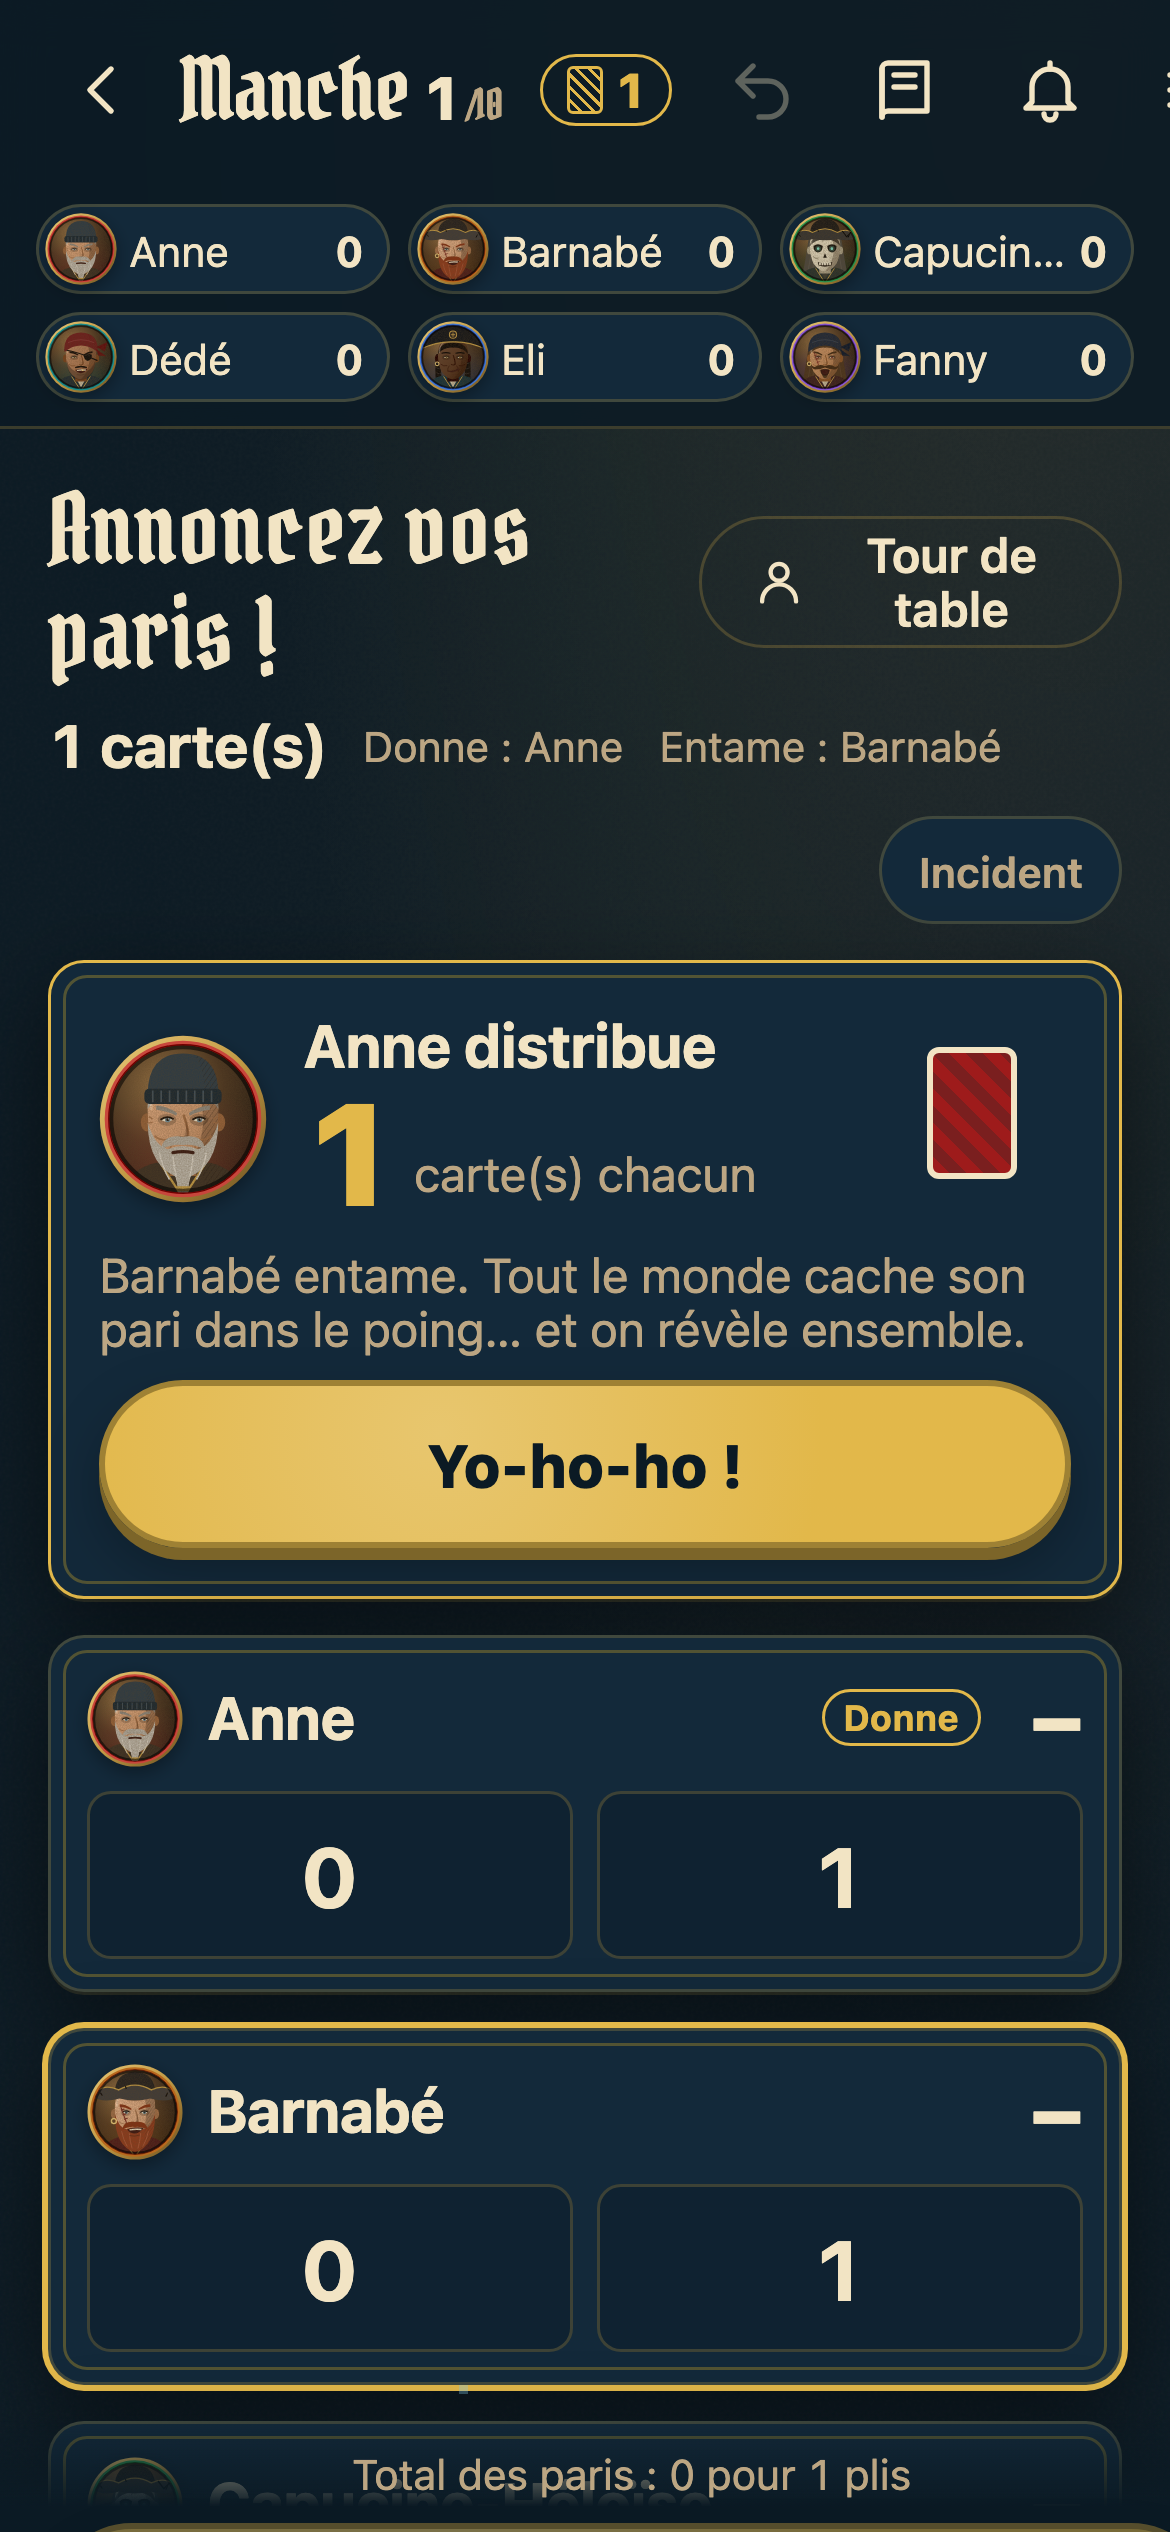
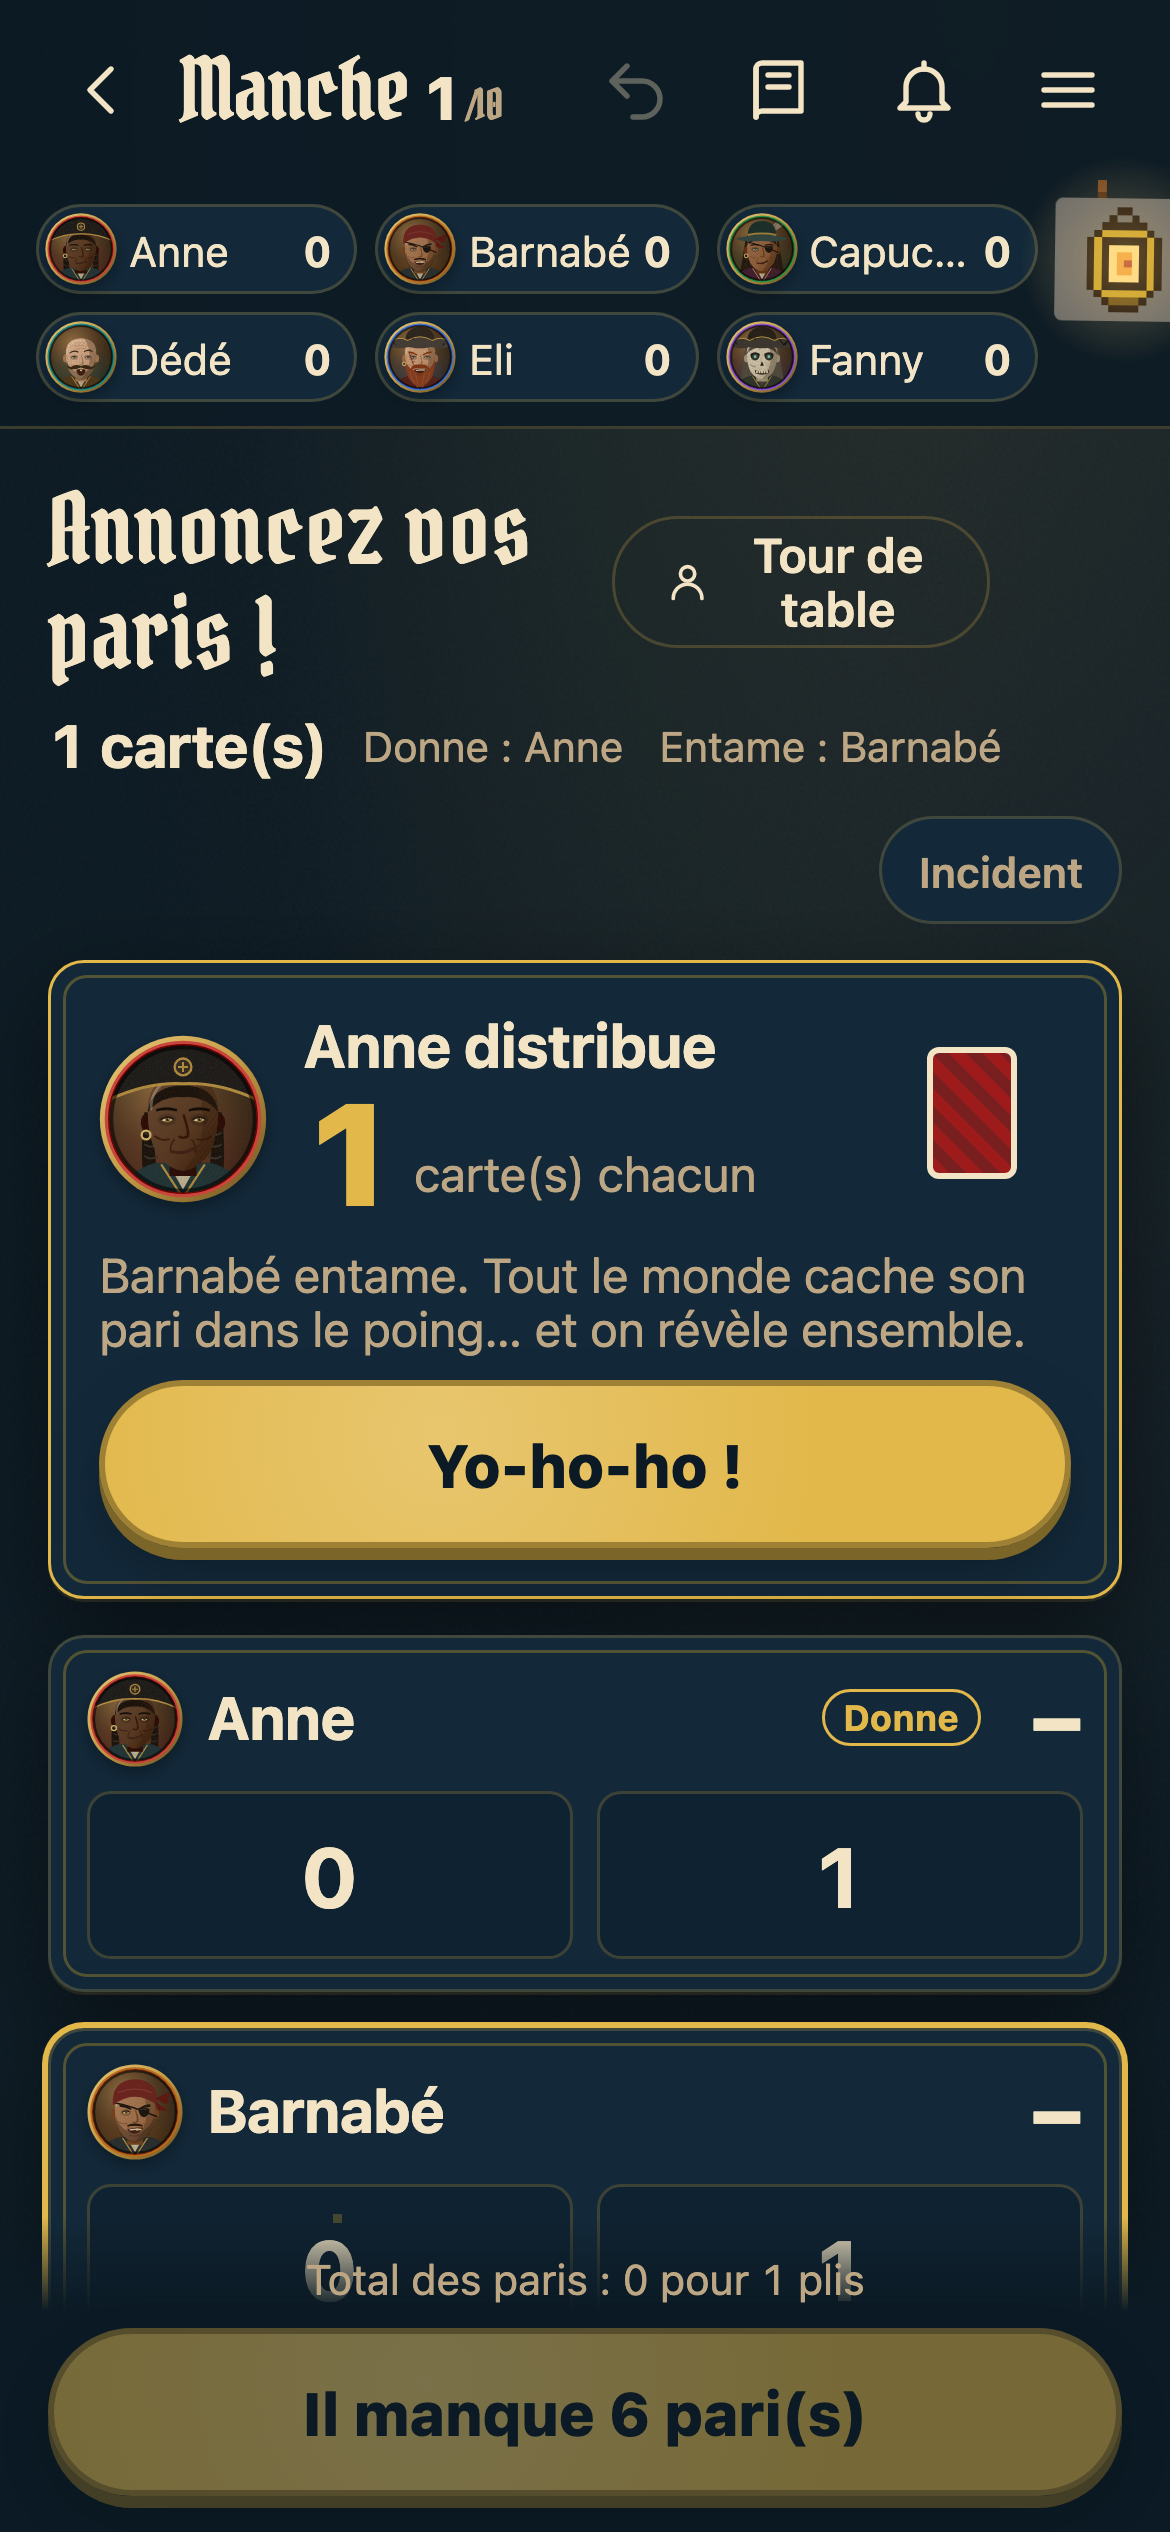
lanterne présente sur tous les écrans (extinction des feux conservée), aucun débordement horizontal

diff --git a/web/src/ui/retro.tsx b/web/src/ui/retro.tsx
@@ -1,6 +1,6 @@
 // Le « cachet » rétro : curseurs pixel, traînée de pièces derrière la souris, étincelles au tap,
 // lanterne qui se balance, navire qui passe, bandeau défilant, badges 88×31 et compteur à l'ancienne.
-import { useEffect, useRef, useState } from 'react';
+import { useEffect, useRef } from 'react';
 import { audio } from '../audio/audio';
 import type { Game } from '../game/model';
 import { t } from '../i18n/t';
@@ -141,30 +141,10 @@ function Pixel({ svg, className }: { svg: string; className?: string }) {
   return <span className={`pixel ${className ?? ''}`} aria-hidden="true" dangerouslySetInnerHTML={{ __html: svg }} />;
 }
 
-/** Toucher la lanterne éteint la lumière : il ne reste qu'un halo qui suit le doigt ou la souris. */
-export function SwingingLantern() {
-  const [off, setOff] = useState(false);
-  useEffect(() => {
-    const root = document.documentElement;
-    if (!off) {
-      delete root.dataset.lights;
-      return;
-    }
-    root.dataset.lights = 'off';
-    const move = (e: PointerEvent) => {
-      root.style.setProperty('--mx', `${e.clientX}px`);
-      root.style.setProperty('--my', `${e.clientY}px`);
-    };
-    window.addEventListener('pointermove', move, { passive: true });
-    window.addEventListener('pointerdown', move, { passive: true });
-    return () => {
-      window.removeEventListener('pointermove', move);
-      window.removeEventListener('pointerdown', move);
-      delete root.dataset.lights;
-    };
-  }, [off]);
+/** La lanterne qui se balance ; la toucher éteint ou rallume la lumière. */
+export function SwingingLantern({ mode, off, onToggle }: { mode: 'page' | 'bar'; off: boolean; onToggle: () => void }) {
   return (
-    <div className="lantern-wrap">
+    <div className={`lantern-wrap ${mode}`}>
       <div className="lantern-rope" />
       <button
         type="button"
@@ -172,11 +152,11 @@ export function SwingingLantern() {
         aria-pressed={off}
         aria-label={t(off ? 'home.lightsOn' : 'home.lightsOff')}
         onClick={() => {
-          setOff(!off);
+          onToggle();
           audio.play('twang', { force: true });
         }}
       >
-        <Pixel svg={spriteSvg(LANTERN, 4)} />
+        <Pixel svg={spriteSvg(LANTERN, mode === 'bar' ? 2.5 : 3)} />
         {!off && <span className="lantern-glow" />}
       </button>
     </div>

diff --git a/web/src/styles.css b/web/src/styles.css
@@ -1458,33 +1458,40 @@ button {
   position: relative;
 }
 .lantern-wrap {
-  position: absolute;
-  top: 34px;
-  right: var(--sp-5);
-  width: 48px;
-  z-index: 2;
+  position: fixed;
+  top: 0;
+  right: 14px;
+  width: 36px;
   transform-origin: 50% 0;
   animation: swing 3.6s ease-in-out infinite;
   z-index: 95;
+  pointer-events: none;
 }
 .lantern-wrap .lantern {
-  border: 0;
-  background: transparent;
-  padding: 0;
+  pointer-events: auto;
 }
-:root[data-lights='off'] body::after {
-  content: '';
-  position: fixed;
-  inset: 0;
-  z-index: 94;
-  pointer-events: none;
-  opacity: 1;
-  animation: none;
-  background: radial-gradient(circle 120px at var(--mx, 50%) var(--my, 30%), transparent 0, transparent 60%, rgba(0, 0, 0, 0.96) 100%);
+.strip-wrap {
+  position: relative;
+}
+.lantern-wrap.bar {
+  position: absolute;
+  right: 14px;
+  width: 30px;
+}
+.lantern-wrap.bar .lantern-rope {
+  height: 6px;
+  width: 3px;
+}
+/* place réservée à la lanterne : ligne de titre des écrans, et à droite des scores en jeu */
+:root[data-retro='on'] .screen > .row:first-child {
+  padding-right: 44px;
+}
+:root[data-retro='on'] .leader-strip {
+  padding-right: 52px;
 }
 .lantern-rope {
   width: 4px;
-  height: 40px;
+  height: 22px;
   margin: 0 auto;
   background: repeating-linear-gradient(to bottom, #7a4a22 0 4px, #4e2e14 4px 8px);
 }
@@ -1495,8 +1502,9 @@ button {
 }
 .lantern-glow {
   position: absolute;
-  inset: -24px;
+  inset: -18px;
   border-radius: 50%;
+  pointer-events: none;
   background: radial-gradient(circle, rgba(255, 210, 120, 0.45), transparent 65%);
   animation: glow 2.2s steps(4) infinite;
 }
@@ -2613,4 +2621,9 @@ button {
     max-width: 30vw;
     text-align: left;
   }
+}
+/* rien ne doit élargir la page sur téléphone (halos, lanternes, animations qui débordent) */
+html,
+body {
+  overflow-x: clip;
 }

diff --git a/web/src/ui/App.tsx b/web/src/ui/App.tsx
@@ -13,7 +13,8 @@ import { AboutScreen, RulesScreen, SettingsScreen } from './misc';
 import { RecapScreen } from './recap';
 import { RoundScreen } from './round';
 import { SetupScreen } from './setup';
-import { RetroLayer, StormLayer } from './retro';
+import { useLightsOut } from './lights';
+import { RetroLayer, StormLayer, SwingingLantern } from './retro';
 import { LeaderStrip } from './strip';
 
 type View = 'home' | 'setup' | 'game' | 'settings' | 'rules' | 'about';
@@ -99,6 +100,10 @@ export function App() {
   }, []);
 
   const inGame = view === 'game' && game !== undefined;
+  const [lightsOff, setLightsOff] = useState(false);
+  const toggleLights = useCallback(() => setLightsOff((x) => !x), []);
+  useLightsOut(prefs.retro && lightsOff);
+  const barLantern = inGame && (game.status === 'inProgress' || finalRecap === game.id);
   useWakeLock(inGame && game.status === 'inProgress' && prefs.wakeLock);
 
   const undo = useCallback(() => {
@@ -231,7 +236,10 @@ export function App() {
                 <Icon name="menu" />
               </button>
             </div>
-            <LeaderStrip game={game} />
+            <div className="strip-wrap">
+              <LeaderStrip game={game} />
+              {prefs.retro && <SwingingLantern mode="bar" off={lightsOff} onToggle={toggleLights} />}
+            </div>
           </header>
         )}
         {playing && prefs.retro && <StormLayer game={game} />}
@@ -251,6 +259,7 @@ export function App() {
       )}
       {body}
       <RetroLayer enabled={prefs.retro} />
+      {prefs.retro && !barLantern && <SwingingLantern mode="page" off={lightsOff} onToggle={toggleLights} />}
       {ledger && game && <Ledger game={game} onClose={() => setLedger(false)} />}
       {menu && game && (
         <Modal onClose={() => setMenu(false)} label={t('game.menu')}>

diff --git a/web/src/ui/lights.ts b/web/src/ui/lights.ts
@@ -1,0 +1,25 @@
+// Extinction des feux : un halo suit le doigt ou la souris quand la lanterne est éteinte.
+import { useEffect } from 'react';
+
+export function useLightsOut(off: boolean): void {
+  useEffect(() => {
+    const root = document.documentElement;
+    if (!off) {
+      delete root.dataset.lights;
+      return;
+    }
+    root.dataset.lights = 'off';
+    const move = (e: PointerEvent) => {
+      root.style.setProperty('--mx', `${e.clientX}px`);
+      root.style.setProperty('--my', `${e.clientY}px`);
+    };
+    window.addEventListener('pointermove', move, { passive: true });
+    window.addEventListener('pointerdown', move, { passive: true });
+    return () => {
+      window.removeEventListener('pointermove', move);
+      window.removeEventListener('pointerdown', move);
+      delete root.dataset.lights;
+    };
+  }, [off]);
+}
+

diff --git a/web/src/ui/home.tsx b/web/src/ui/home.tsx
@@ -2,7 +2,7 @@ import { currentRound, gameRanking, playerById, type Game } from '../game/model'
 import { useStore } from '../game/store';
 import { t } from '../i18n/t';
 import { Avatar, Compass, Crown, Icon } from './common';
-import { Badges, ShipParade, SwingingLantern, Ticker, VisitCounter } from './retro';
+import { Badges, ShipParade, Ticker, VisitCounter } from './retro';
 
 function winnerNames(g: Game): string {
   return gameRanking(g)
@@ -29,7 +29,6 @@ export function Home({
 
   return (
     <main className="screen home">
-      {state.prefs.retro && <SwingingLantern />}
       {state.prefs.retro && <Ticker />}
       <div style={{ textAlign: 'center', padding: 'var(--sp-6) 0 var(--sp-4)' }}>
         <Compass />
